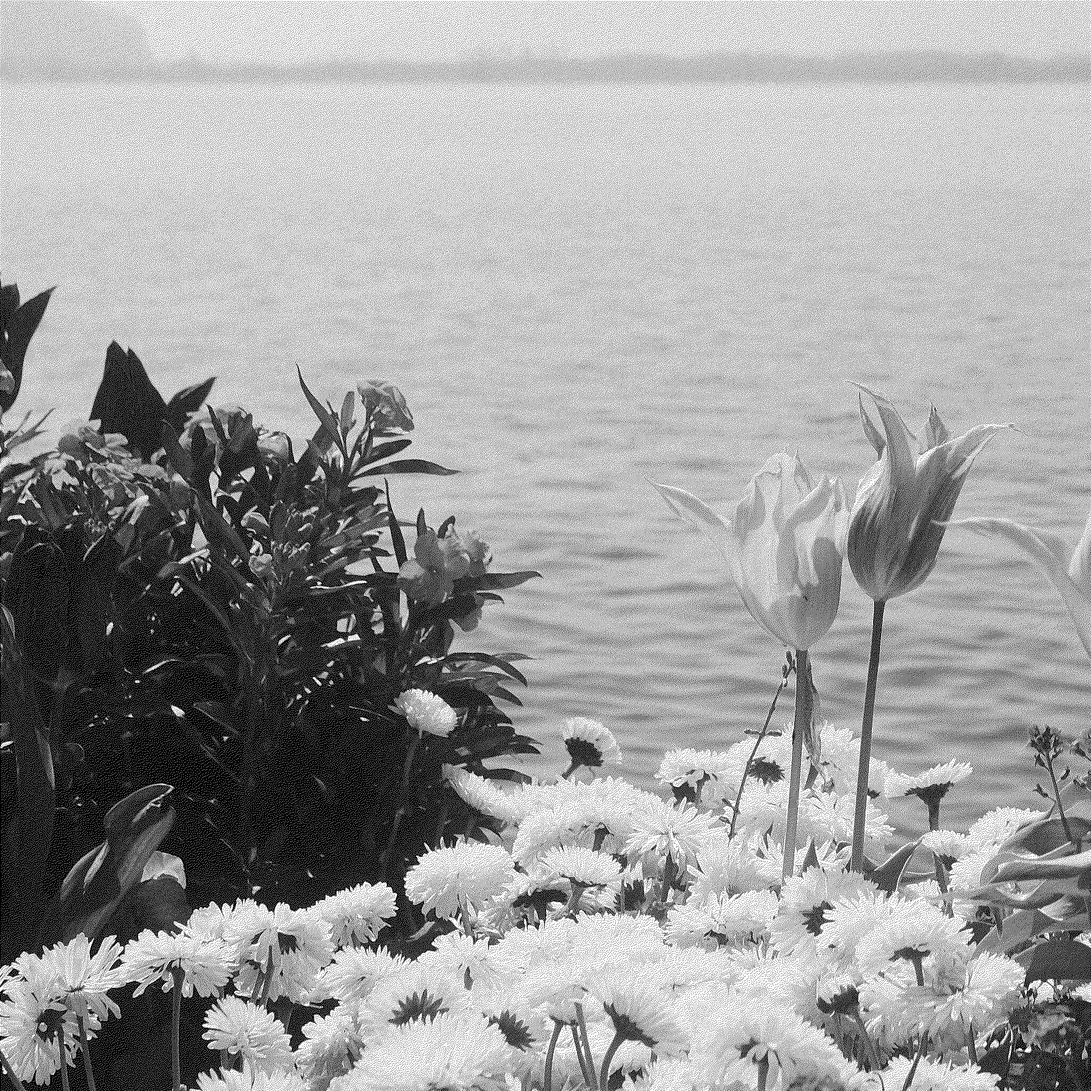
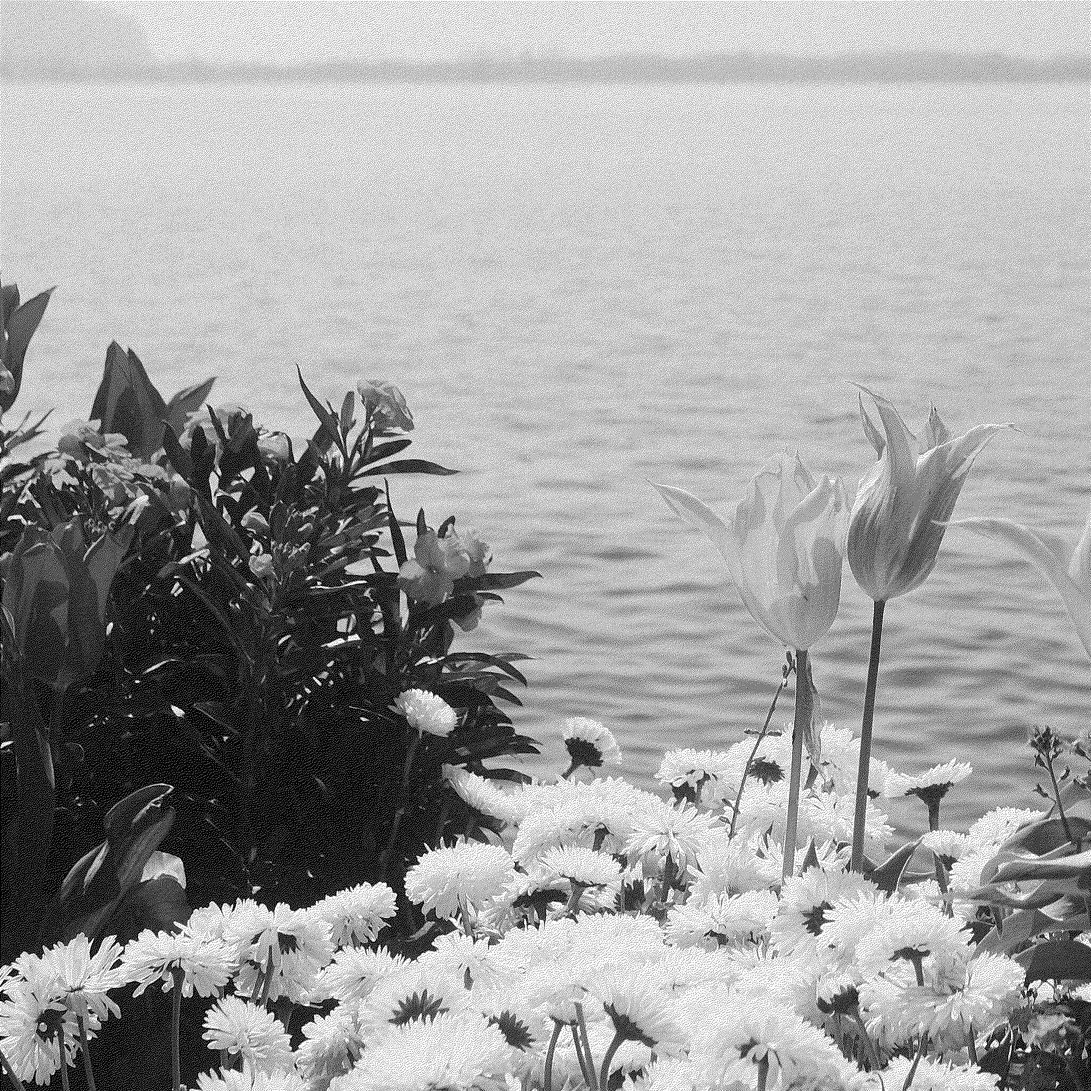
Перевод изображения в bw, gs, dithered

Changed region(s): [[0.0, 0.0, 1.0, 1.0]]

diff --git a/translator.py b/translator.py
@@ -1,0 +1,47 @@
+from PIL import Image
+import os
+
+from PIL.Image import Dither
+
+
+def convert_image_variations(image_path, output_path_prefix, threshold=128):
+    try:
+        img = Image.open(image_path)
+
+        # 1. Изображение в оттенках серого (Grayscale)
+        img_grayscale = img.convert('L')
+        grayscale_output_path = f"{output_path_prefix}_GS.png"
+        img_grayscale.save(grayscale_output_path)
+
+        # 2. Черно-белое (двоичное) изображение
+        img_thresholded = img_grayscale.point(lambda x: 255 if x > threshold else 0)
+        img_bw_final = img_thresholded.convert('1')
+        bw_output_path = f"{output_path_prefix}_BW.png"
+        img_bw_final.save(bw_output_path)
+
+        # 3. Изображение с дизерингом (черно-белое)
+        img_dithered = img_grayscale.convert('1', dither=Dither.ORDERED)
+        dithered_output_path = f"{output_path_prefix}_D.png"
+        img_dithered.save(dithered_output_path)
+
+        print(f"Преобразования для {image_path} завершены. Результаты в папке '{os.path.dirname(output_path_prefix)}'.")
+
+    except FileNotFoundError:
+        print(f"Ошибка: Файл не найден по пути {image_path}")
+    except Exception as e:
+        print(f"Произошла ошибка при обработке {image_path}: {e}")
+
+
+if __name__ == "__main__":
+    test_images_data = [
+        {"path": "Test Images/Lenna.png", "prefix": "output/Lenna", "threshold": 128},
+        {"path": "Test Images/Beach.jpg", "prefix": "output/Beach", "threshold": 100}
+    ]
+
+    for item in test_images_data:
+        output_dir = os.path.dirname(item["prefix"])
+        if output_dir and not os.path.exists(output_dir):
+            os.makedirs(output_dir)
+
+        print(f"\nОбработка: {item['path']}")
+        convert_image_variations(item["path"], item["prefix"], threshold=item["threshold"])
